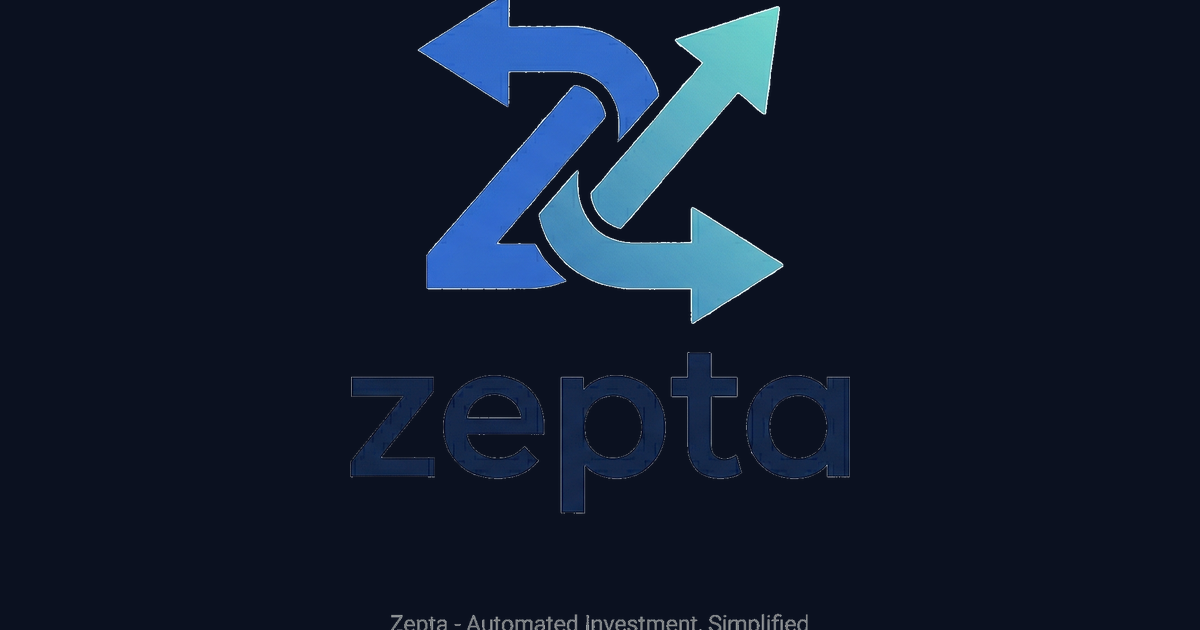
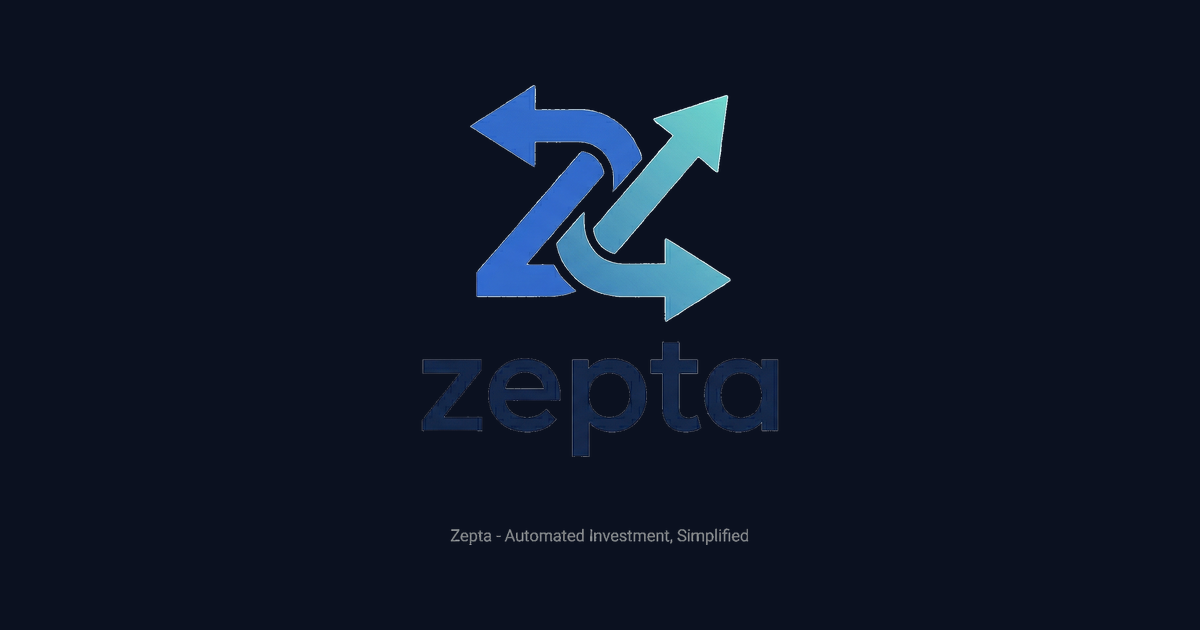
fix: 헤더/파비콘 화살표 로고만 표시 + 크기 확대
- 헤더: zepta 텍스트 제거, 화살표 심볼만 36px로 확대
- 파비콘: 화살표 심볼만 (favicon-32.png)
- 로그인 모달: 화살표 심볼 32px
- manifest.json: 아이콘 화살표 버전으로 교체
- OG 이미지: 전체 로고(심볼+텍스트) 유지

diff --git a/src/App.jsx b/src/App.jsx
@@ -6762,8 +6762,7 @@ function AppInner() {
 
           {/* 좌측: 로고 */}
           <div onClick={() => setTab("home")} style={{ display: "flex", alignItems: "center", gap: "8px", cursor: "pointer", userSelect: "none", marginRight: "16px", flexShrink: 0, title: "홈으로 이동" }}>
-            <img src="/zepta-logo-192.png" alt="Zepta" width="28" height="28" style={{ flexShrink: 0, borderRadius: "6px" }} />
-            <span style={{ fontWeight: 800, fontSize: "17px", letterSpacing: "-0.5px", color: C.text1 }}>Zepta</span>
+            <img src="/zepta-icon-192.png" alt="Zepta" width="36" height="36" style={{ flexShrink: 0 }} />
           </div>
 
           {/* 중앙: GNB — 호버 시 LNB 드롭다운, 클릭 비활성 (홈만 클릭 이동) */}
@@ -11071,7 +11070,7 @@ function AppInner() {
           }}>
             <div style={{ padding: "24px 24px 0", display: "flex", justifyContent: "space-between", alignItems: "center" }}>
               <div style={{ display: "flex", alignItems: "center", gap: "10px" }}>
-                <img src="/zepta-logo-192.png" alt="Zepta" width="28" height="28" style={{ flexShrink: 0, borderRadius: "6px" }} />
+                <img src="/zepta-icon-192.png" alt="Zepta" width="32" height="32" style={{ flexShrink: 0 }} />
                 <div>
                   <h3 style={{ margin: 0, fontSize: "18px", fontWeight: 800, color: C.text1 }}>Zepta 로그인</h3>
                   <p style={{ margin: "2px 0 0", fontSize: "12px", color: C.text3 }}>투자 서비스를 이용하려면 로그인하세요</p>

diff --git a/index.html b/index.html
@@ -36,7 +36,7 @@
     <meta name="mobile-web-app-capable" content="yes" />
     <link rel="manifest" href="/manifest.json" />
     <link rel="icon" type="image/png" sizes="32x32" href="/favicon-32.png" />
-    <link rel="apple-touch-icon" sizes="192x192" href="/zepta-logo-192.png" />
+    <link rel="apple-touch-icon" sizes="192x192" href="/zepta-icon-192.png" />
     <!-- JSON-LD Structured Data for SEO -->
     <script type="application/ld+json">
     {
